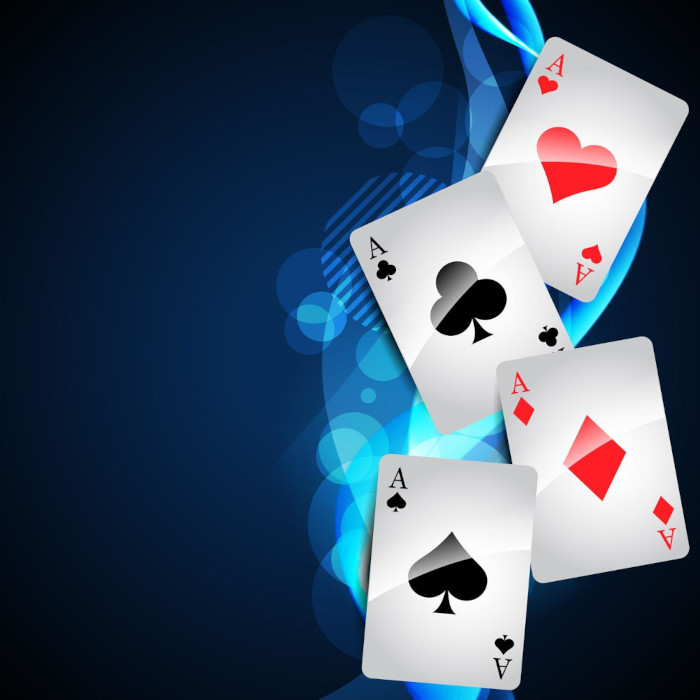
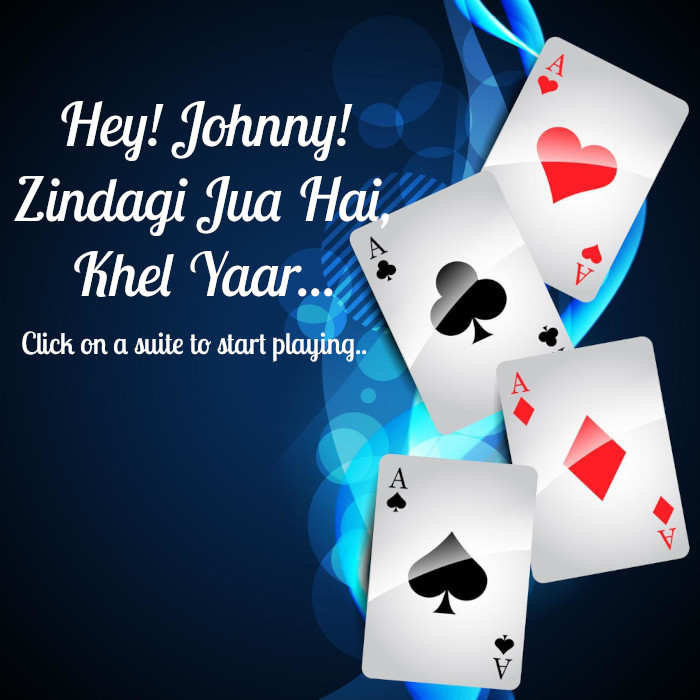
Quiz 202101 - Final check in

Changed region(s): [[0.0, 0.12, 0.57, 0.42], [0.03, 0.45, 0.51, 0.51]]

diff --git a/quizplus/src/main/webapp/202101/app/questiondata.js b/quizplus/src/main/webapp/202101/app/questiondata.js
@@ -1,7 +1,82 @@
+const SPADE_IMAGES = [
+  {"img_url":"http://lh3.googleusercontent.com/siMGNomcojaCUri-cd61ppyzu-noqm8XEBXAgZjgbQu60J0FRrC8XkaaftLmm5AHWmkmmwTi4vTWTzzzNodDYlgDnwgj7gCeKX-R7XWe", "img_width": "950", "img_height": "730" },
+  {"img_url":"http://lh3.googleusercontent.com/NxiBurMD7ptIkiqaeAH6Mftpibl3BovyXO0La_HGxVuFjsaiqqiRu4URcVUH_CTXJLBU3C3_bDDsfdn5foT6p2uXpDFt9q1Tr-I3YBI", "img_width": "950", "img_height": "730" },
+  {"img_url":"http://lh3.googleusercontent.com/oLB0uIB7bLlO-4Chxier6a3nACB8p1sDvG_X7TvrgZKwLYzdtT67LQV9F0Ge-mGG7EWB7V0ixsmBsZDa_TxE2Bdwh4I3GWGw2PkuEl8", "img_width": "950", "img_height": "730" },
+  {"img_url":"http://lh3.googleusercontent.com/mHYMqiPtOmX862HZnU2KFQOnxO5aiC6qNf8NvDxzZXVxjXHymBMwZhEUAr8YjEOAuXyH6Dk86eibj30vug2iNWet6clQbANT-DsNpd4", "img_width": "950", "img_height": "730" },
+  {"img_url":"http://lh3.googleusercontent.com/bsOJT5Uy4G1OZUarp30Y5WkPWhyeub20UwVKfkvh0Dwvojtjf5--m3bIHohNj4yld-URZ6OAos9wRYVOgSX-Tg0uiFHk_uFkITbY5lFb", "img_width": "950", "img_height": "730" },
+  {"img_url":"http://lh3.googleusercontent.com/Lq66VgnLxdtnDwoFSkm2zhI7pTB2N1C_2OzO8okBRby8kZv9HzCYk9-2iDy9nInEhvLHlSirZJvARMYEN7CL8igx7n8EmWpiPV4Go3g", "img_width": "950", "img_height": "730" },
+  {"img_url":"http://lh3.googleusercontent.com/ioMTiKbYPW13sQvN3hDPQ3zaQRL3L1qeLy5s2xAWRpsYt7cbgp5FF39qzi65hi9KD0AxBwTlye7OpwdZR6Az7EdGkLPNHmvwC_2tYLMj", "img_width": "950", "img_height": "730" },
+  {"img_url":"http://lh3.googleusercontent.com/dhyj4qR5iCovV7N0A_VCoLFpQKfMFaqqyXB246ZuxKrkhl2lYzutE9iKDi57aWseVkonDj7lT-GbxJxTFJ47L3nrcYntbxgRmFDHCA0", "img_width": "950", "img_height": "730" },
+  {"img_url":"http://lh3.googleusercontent.com/QAVGCvlcmHqHIjW090CsxU0pbeR0uSFxdx2vRoufDTsgQZzIhhVZREyYEYm26OqUjVutRIi2THQ7gmVfUX85sSRFO7qyAHxv3RVxVys", "img_width": "950", "img_height": "730" },
+  {"img_url":"http://lh3.googleusercontent.com/1ReBRxcIWTxvYIioMqhKshL_6zHqUUDOPMAPFq0xnlLiE6CMUdtxGuVZC5iSpo3D_lB2RFLF1dQh211PLHdts2ZDEob2GhT0w_4EOfs", "img_width": "950", "img_height": "730" },
+  {"img_url":"http://lh3.googleusercontent.com/yujbngoep2_vpB84AjwGAheomcRnDCgiBPG2y6zRsomIdu_XAwRbKz8QuwtnmIjkw6CSPkF1dkhsxcMrUrXuE_U1UnvY34eMtaHmtic", "img_width": "950", "img_height": "730" },
+  {"img_url":"http://lh3.googleusercontent.com/hTXSUuXBpXraBWBwwDroZzpZM9WV82wC33ZJJZvDWwsPu9vrn4o_CJtlzFBcHeaiaxxdO7xIUl3y7tI0zkjcnvVv6tj7U87RuJUxkwE", "img_width": "950", "img_height": "730" },
+  {"img_url":"http://lh3.googleusercontent.com/spuDvw2eP5EI2CGFI3IP615M6n-zymKSRESXZwNrJXw5Ovvqf-4UYmn8_c51HuYlPodDDX-xpkqqE45rkASr8lw36VGKPsOobCU0UiY", "img_width": "950", "img_height": "730" },
+];
+
+const DIAMOND_IMAGES = [
+  {"img_url":"http://lh3.googleusercontent.com/xsryecWQh-VkZk0TDoH8YR16YBU7dzTLakBjFdeejNuyaUB-6ljY-RbvpiJUTKAplI-vysxlQxBwdmR9GxLtQhc2KPT6xcLn-o5fIoQ4", "img_width": "950", "img_height": "730" },
+  {"img_url":"http://lh3.googleusercontent.com/x3OY631384QPstY4loFfhfPojH7CLlLRV49JrO4Uf2XpCxEoeTtCUqTFCOXYU2UqfejXQnD8dnJiKjugayuczpS7kqmZW0lR0bxXL2jC", "img_width": "950", "img_height": "730" },
+  {"img_url":"http://lh3.googleusercontent.com/DHw7ph3TD2c1l-kqwqowibT_uiSVt4qa-xlkCJDBxpbItNUEdan0Tn6S6KIYASiHrTIJzRELvTk9kRaUoME5d_zUOp7pa9wTrZRA78w", "img_width": "950", "img_height": "730" },
+  {"img_url":"http://lh3.googleusercontent.com/JFARk2EUSGbi8gQT_UInDvQF-YD8iBhfTM0AO57Cg_H0l7uMM4QWxG3nUNFgMc8fK3Hi8P-rgtwLQ2_jUAmIiTZdnX9nZs1MSnu5Vw", "img_width": "950", "img_height": "730" },
+  {"img_url":"http://lh3.googleusercontent.com/S4N8YJuMKBjAyLLZ7-4QktfhQgJcXQNmMGPKt5BdWLtfHVuWIbMz0ubYSuH28_yrDcWHa8_1U6ulIv5oMzaH2DgsIcrqH7O91IOlaORl", "img_width": "950", "img_height": "730" },
+  {"img_url":"http://lh3.googleusercontent.com/MeLFXtmyAVdQPRxHrGAfHO7ehlcnfbkTmV8dR0kWCNtr3-NVVqZxpDZbo84Dw1Nh6asW1Gd22zSgdtwEUA56XpHJnwy5TxcpU2aVWA", "img_width": "950", "img_height": "730" },
+  {"img_url":"http://lh3.googleusercontent.com/7zFmGqAVPxgXMRpomCloVfZbCzP8lqAjG4z3-2ez8PUellsDFwLoZI62_3uh5CjtQ343Ri0gKqOgJe94UWLHDYPYdND5N0Uaw2FDHNI", "img_width": "950", "img_height": "730" },
+  {"img_url":"http://lh3.googleusercontent.com/QkQAOVyPPgPOo65NVMUA5x03FpwZ5O_P0DLFdp5klXDZSwjqrC5Q0sgu797ZVcr4urHAmSyvMHw7t5EdTbghmDVxdiWw_L_nBv2GIQ", "img_width": "950", "img_height": "730" },
+  {"img_url":"http://lh3.googleusercontent.com/0NvYF2S_B7hV1JKnfQxg-JI9qsY2nkDwiwiEvG6dFX39S2B66FXmMFTBjhqc6urhDg4f6iQME6PplHpvpX8hMVCyRc_Hsl9bnpiQJuaj", "img_width": "950", "img_height": "730" },
+  {"img_url":"http://lh3.googleusercontent.com/zDqq1eHs_xMsG7bXy3XKxCvlFcFxjENoJ4ilhCLaicEc_IMGGF-pmsZTceZ8Fp68pl8LRUuYWd9ed3TxwFyyfRuYU3z0HsUfDmnUQJc", "img_width": "950", "img_height": "730" },
+  {"img_url":"http://lh3.googleusercontent.com/dRYvvXgZyot-6Z1RUV77FNJip5QvSYwckfR6gG-G3zyzUI-LgVnTTAtd-9r5rA5Z1SkdpCdRX5_mbGD8tYlx__1PduYYE6vMkM3599s", "img_width": "950", "img_height": "730" },
+  {"img_url":"http://lh3.googleusercontent.com/7X5vpCiTrgDP9fNMjnNu--Qx7nI5FxOiaylgAk32snPKW0sEyrOsYYXgdx2Dh83oV6qmnwUM5lxrLtXAFLhVbjDQtMbSRDxvaAXXO7Y", "img_width": "950", "img_height": "730" },
+  {"img_url":"img/cricket.png", "img_width": "384", "img_height": "328", "is_cricket": true },
+];
+
+const CLOVER_IMAGES = [
+  {"img_url":"http://lh3.googleusercontent.com/x6vFdyOuvmRsEepVkFfye507XWTCnJhSI2sFI8SgpB64xi6r8bcglcVv6fTjH1SS294HFtFaM5SA82uF4QjRD_hgq-n6zdoTZrAPCyE", "img_width": "950", "img_height": "730" },
+  {"img_url":"http://lh3.googleusercontent.com/wO7potT5HJwoQ3XLWFZBFOlBPCPPSgaMvUBBi0ch9e86TTYHM5vKN4repnef9FbHa93E-BoEz-8wzpyVo08977ChLOi7FN2-nVAhxaXu", "img_width": "950", "img_height": "730" },
+  {"img_url":"http://lh3.googleusercontent.com/r9NrH8BQkuMt4hfPyWPZB3n3Plwx-VK9aQzIjP0lDzRqiBgrGJojtdwqV-bEN2wZS-DsILehVbPT-L1_E68MI75km908ynghKTLFVw", "img_width": "950", "img_height": "730" },
+  {"img_url":"http://lh3.googleusercontent.com/7q0RjiHu6tsddXNVg4DzdYajrjnsMZV5gmlRko3yj6q_T2J1Prs627yso-qWp-Lfs-OBt7M1SEC-8gsKfgZ0zvfd7AGEPFUKbwI7Xa4", "img_width": "950", "img_height": "730" },
+  {"img_url":"http://lh3.googleusercontent.com/GsEgq50T2rIgMRfsBFGCD-TuI_zeGexxgw5SbulCoutMdJAXINOxJEH5O9OpjsLLRwXvRdDrErZRZEj97RqbjbEnEIU40VfsZ-O5fvA", "img_width": "950", "img_height": "730" },
+  {"img_url":"http://lh3.googleusercontent.com/zsePGB_DdVgL-PMVufYexbySVeUQZInYpzKlnrkiEgwQ70fopVP91iHFeSpTbD7YGH6N_Qbt0gTdEMAZKNXHbi4O0WGbqeNYGoSaEw", "img_width": "950", "img_height": "730" },
+  {"img_url":"http://lh3.googleusercontent.com/jb_fILVJ8hBQvljdK9QT6esVFPFMwfpLMfNMFzmuP-NyUfmhkrDc6QCFsAZ3xSCo6F7SG5H3OBrPORRx0r-ub49S1La9qlmaVUtE7g", "img_width": "950", "img_height": "730" },
+  {"img_url":"http://lh3.googleusercontent.com/ioCwB4VwyQQ2Q9CT3QGf2xe7qIwH2OpOemGujMF33XIE6aoW8HqaLYdaiU_YPoLZVz2eeaW1kw60-aGCv_H8W3zZ6GdWUVQkAiJd5UA", "img_width": "950", "img_height": "730" },
+  {"img_url":"http://lh3.googleusercontent.com/k_59YJmN0bkuS70QUkcpKlMSZdJ1jtMLue3G4e4ORKnGvu_BiXCczDePd_OkENyPIzbXJN0dLeJvrRcd5FUfkP_hz4sIRXv2tzHw9OQ", "img_width": "950", "img_height": "730" },
+  {"img_url":"http://lh3.googleusercontent.com/hNAazaQNUhlW123wU_1VFPFHh3YlrOyb_6fWVeeX6dqGnh2LifNB7JTPtwvSrk1mCkF8bztcAkgra4X3TXe_4aIwseqGau0kj_IWEO9c", "img_width": "950", "img_height": "730" },
+  {"img_url":"http://lh3.googleusercontent.com/3_hgtE7bqlXbA7ymXmcwfr2dT5ldz5vRMA35yDxgPJ-az97pA7jw2QuEYKKvJLHNn4TeOh8Ghor-kz5O7UdTxX7wWdOL9Pp57jYdHuU", "img_width": "950", "img_height": "730" },
+  {"img_url":"http://lh3.googleusercontent.com/fBCiWeZdf9vWIjX0zWhHAfBoWDyTnEect2AClt0S_PpycfgUT-o_JadGCNC89hnNHf9UtVY2brSoVWNBWuG92rJZ1Y6Jl8hhYI-Gmt0", "img_width": "950", "img_height": "730" },
+  {"img_url":"http://lh3.googleusercontent.com/BKrd3zIi0fAcaODB08yCmQx5jxSFCpZum9nEd3hIoPpS92Q2ud7tMG0yWZweWvtHD-71ZaV-2xlA7tZYQ_XXHHtSk_e8RGVh0WVTzJk", "img_width": "950", "img_height": "730" },
+];
+
+const HEART_IMAGES = [
+  {"img_url":"http://lh3.googleusercontent.com/dGkXhHomPckG6_NJJS5edEpr1YFMwtdW5phxpMuXwX2rVtmpfOCyczjozZm2_UUoYf8JD8peg2K_OfY4jFhmnGXYA83p4_aAV_pf-ag", "img_width": "950", "img_height": "730" },
+  {"img_url":"http://lh3.googleusercontent.com/YmRslqZ032V7pDropNNDe5H7Ie-EpDrUh0hRREXi5ADaQRzJpTJbWvfpSlQafZBR4vWzdR2hqy_eAdAzEw44o1LhzB6123_VEVM5ZA", "img_width": "950", "img_height": "730" },
+  {"img_url":"http://lh3.googleusercontent.com/ak-aGFHsGXetzP2lWljZ3QRD-bSGSqhQ2KM4ValK-ZRxmu8HgXVaSuE2PkZwEdtUAv6NbF4526_2cjjkHg3zwgaijp6UJEbC13L44kIZ", "img_width": "950", "img_height": "730" },
+  {"img_url":"http://lh3.googleusercontent.com/TXbWwpticpmwWPT78T_fC_o3CZlhKFMSWWBOhs2EQVvbmvF30auEC5o_udKRn1SLoXMy-ac3XOEvjolAkrfqlyle-ZfeAoebJMsvu9th", "img_width": "950", "img_height": "730" },
+  {"img_url":"http://lh3.googleusercontent.com/ygmFemyW7ZSUThTPwRr8jwE-3E9IQ_MczwzFtMWoeTz9N_Pu6CcXY8zBSMR8PYKPXk_E1Xcf6xIurKP3C5dGlCikVF_VOTCCc1ApqF8", "img_width": "950", "img_height": "730" },
+  {"img_url":"http://lh3.googleusercontent.com/l0xK06hwtBC_tbhPeRXQi0wZXFVB8mCP_arqk1fwsUPA-4WYbkXh_-z5tKDKkf4Xe5lVATZO0g6AXw-hlRdOcjI6bCZWrJnb0VxywKA", "img_width": "950", "img_height": "730" },
+  {"img_url":"http://lh3.googleusercontent.com/7gjcq6txb54nCCJb2RWoItG7e4snyp21twdZ2hZ01OGagvEbXDzEGuIrVhMI4f9-2fYr-CuQv_mqrnjf_aiBHdlvMd2cSqo6o_jA5g", "img_width": "950", "img_height": "730" },
+  {"img_url":"http://lh3.googleusercontent.com/GlvhdoSFJ9CsXEBl_BOozM3349gcklv92MxUb6bNvv0A919NAliPlwXkSkAXtp9jI812Z0uhqXwIGvAw3h5tdmE590koycUORlsLPNJU", "img_width": "950", "img_height": "730" },
+  {"img_url":"http://lh3.googleusercontent.com/LTHCfQWc7hNQAu8k64ZDcroBvv5eZxNFwmT_v1x1n2HuI_pqmvFdKpRjhqvTA0vZ2CNyDp0MrnHYkhAdq7gWBW3c4dlj-WCuU4Rvv-k", "img_width": "950", "img_height": "730" },
+  {
+    "img_url":"http://lh3.googleusercontent.com/wAfyIkFGgtpepMIU2i51Zbg4CWkqD8Eug5Vd-GWNN0xA4fctWJGeoYZhltqs1wz0q1kyQmaFItW47ReqzjaMhXgxrFU8O-dZwmG5cA",
+    "img_width": "950",
+    "img_height": "730",
+    "video_url" : "https://www.youtube.com/embed/XqobRkUAsMc?hl=en&fs=1&rel=0&autoplay=0&showinfo=0"
+  },
+  {"img_url":"http://lh3.googleusercontent.com/17MneA-oUThV7PGRJK13Bgp13O-pZwDl6dD0IOpe11iWHqK3oFHLba2DtA9OOVh618VPftXsoITADATk4a4qqPyuSOGTujBkMm6uO7c", "img_width": "950", "img_height": "730" },
+  {"img_url":"http://lh3.googleusercontent.com/ASDhvPBzEOUzDW05BApOPBGWh-IwwpPL87xYcZt1geDnWDOGr0sv8Xfci-RrxjWbaf4rcyplk0mCnm6_1guGg9PS2XGRTM9NwBktqw", "img_width": "950", "img_height": "730" },
+  {"img_url":"http://lh3.googleusercontent.com/kBaMiksWXbbk6rN3baItjS_l0FZVDQdQTf8yT2MbazqEYd5-HirGs25132y3Uqa2TdKi5CBEjntkyqwV2QuxDykx_LF-jzNYJZvNbA", "img_width": "950", "img_height": "730" }
+];
+const IMAGES_BY_SET = new Map([
+  ["s", SPADE_IMAGES],
+  ["d", DIAMOND_IMAGES],
+  ["c", CLOVER_IMAGES],
+  ["h", HEART_IMAGES],
+]);
+
 quizRunnerModule.factory('QuestionData', function() {
   var helper = {};
   helper.getContent = function(questionSet, questionId) {
-    return null;
+    return IMAGES_BY_SET.get(questionSet)[questionId - 1];
   };
   
   return helper;

diff --git a/quizplus/src/main/webapp/202101/components/chat/controller.js b/quizplus/src/main/webapp/202101/components/chat/controller.js
@@ -14,7 +14,9 @@ quizRunnerModule.controller('ChatController', function($scope,
     authDomain: "quizplus-1145.firebaseapp.com",
     databaseURL: "https://quizplus-1145-default-rtdb.firebaseio.com"
   };
-  firebase.initializeApp(config);
+  if ($scope.ctrl.initfb) {
+    firebase.initializeApp(config);
+  }
   
   $scope.chatUser = {
     userId: $scope.ctrl.person.personid,
@@ -45,14 +47,15 @@ quizRunnerModule.controller('ChatController', function($scope,
   });
   
   $scope.chat.on('message-add', function(room, m) {
-    $scope.messages.push({
-      id: m.id,
-      text: m.message,
-      userName: m.name,
-      userId: m.userId,
-      avatar: "img/avatar.png",
-      date: m.timestamp
-    });
+    var newMessage = {
+        id: m.id,
+        text: m.message,
+        userName: m.name,
+        userId: m.userId,
+        avatar: "img/avatar.png",
+        date: m.timestamp
+      };
+    $scope.messages.push(newMessage);
     $scope.$applyAsync();
   });
 
@@ -67,14 +70,6 @@ quizRunnerModule.component('chat', {
   controllerAs : 'ctrl',
   bindings : {
     person : '=',
+    initfb : '=',
   },
 });
-
-/*
-      $scope.chat.createRoom("Team 1 Room", "public", function(roomId){console.log(roomId);});
-      $scope.chat.createRoom("Team 2 Room", "public", function(roomId){console.log(roomId);});
-      $scope.chat.createRoom("Team 3 Room", "public", function(roomId){console.log(roomId);});
-      $scope.chat.createRoom("Team 4 Room", "public", function(roomId){console.log(roomId);});
-      $scope.chat.createRoom("Team 5 Room", "public", function(roomId){console.log(roomId);});
-      $scope.chat.createRoom("Team 6 Room", "public", function(roomId){console.log(roomId);});
-*/

diff --git a/quizplus/src/main/webapp/202101/components/cricket/controller.js b/quizplus/src/main/webapp/202101/components/cricket/controller.js
@@ -1,0 +1,56 @@
+quizRunnerModule.controller('CricketController', function($scope, $routeParams,
+    $location, $http) {
+  $scope.cells = [];
+  for (var i = 0; i < 12; ++i) {
+    $scope.cells.push({value: "0"});
+  }
+  
+  function recalcTable() {
+    var bat1 = {r: 0, b: 0, f: 0};
+    var bat2 = {r: 0, b: 0, f: 0};
+    var bowl1 = 0;
+    var bowl2 = 0;
+    var currBat1 = true;
+    for (var b = 0; b < 12; ++b) {
+      var currCell = parseInt($scope.cells[b].value);
+      if (currCell === 6) return false;
+      if (b < 6)
+        bowl1 += currCell;
+      else
+        bowl2 += currCell;
+      if (currBat1) {
+        bat1.r += currCell;
+        bat1.b++;
+        bat1.f += (currCell === 4 ? 1 : 0);
+      } else {
+        bat2.r += currCell;
+        bat2.b++;
+        bat2.f += (currCell === 4 ? 1 : 0);
+      }
+      if (currCell === 1)
+        currBat1 = !currBat1;
+      if (b == 5)
+        currBat1 = !currBat1;
+    }
+    return (bat1.r === 6) && (bat1.b === 4) && (bat1.f === 1) &&
+      (bat2.r === 11) && (bat2.b === 8) && (bat2.f === 1) &&
+      (bowl1 === 8) && (bowl2 === 9);
+  }
+  
+  $scope.changeValue = function(cell){
+    switch (cell.value) {
+      case "0": cell.value = "1"; break;
+      case "1": cell.value = "2"; break;
+      case "2": cell.value = "4"; break;
+      case "4": cell.value = "6"; break;
+      case "6": cell.value = "0"; break;
+    }
+    $scope.allCorrect = recalcTable();
+  };
+});
+
+quizRunnerModule.component('cricket', {
+  templateUrl : 'components/cricket/page.ng.html',
+  controller : 'CricketController',
+  controllerAs : 'ctrl'
+});

diff --git a/quizplus/src/main/webapp/202101/views/landing/controller.js b/quizplus/src/main/webapp/202101/views/landing/controller.js
@@ -1,5 +1,5 @@
 quizRunnerModule
-  .controller('LandingPageController', function ($scope, $http, $location, Storage, QuestionData) {
+  .controller('LandingPageController', function ($scope, $http, $location, $window, Storage, QuestionData, $mdDialog) {
     $scope.person = Storage.getPerson();
     $scope.join = function(key) {
       if(this.nameInput === undefined || this.nameInput == null || this.nameInput.length < 1)
@@ -11,13 +11,25 @@ quizRunnerModule
       }).then(function(response) {
         $scope.person = response.data;
         Storage.savePerson($scope.person);
-        $location.reload();
+        $window.location.reload();
       }, function(response) {
         console.log(response);
       });
     };
     
     $scope.goto = function (key) {
-      $location.path('/q/' + key);
+      var utcDate = new Date();
+      var pstDate = new Date(utcDate.toLocaleString('en-US', { timeZone: 'America/Los_Angeles' }));
+      if (pstDate.getHours() < 18) {
+        $mdDialog.show(
+          $mdDialog.alert()
+            .clickOutsideToClose(true)
+            .title('Not Yet Time') 
+            .textContent('The Quiz will open at 6 PM Pacific.')
+            .ok('OK!')
+          );
+      } else {
+        $location.path('/q/' + key);
+      }
     };
   });

diff --git a/quizplus/src/main/webapp/202101/admin.html b/quizplus/src/main/webapp/202101/admin.html
@@ -14,16 +14,8 @@
 </head>
 
 <body ng-app="QuizRunnerModule">
-  <div ng-controller="RootController as rootCtrl" layout="row">
-    <md-sidenav
-	    class="md-sidenav-left"
-	    md-component-id="left"
-	    md-is-locked-open="true"
-	    md-whiteframe="4"
-	    ng-if="person">
-      <chat person="person" initfb="true"></chat>
-    </md-sidenav>
-      <div ng-view class="content-container"></div>
+  <div ng-controller="AdminPageController as rootCtrl" layout="row">
+    <chat person="person" initfb="$index === 0" ng-repeat="person in persons"></chat>
   </div>
 </body>
 
@@ -54,15 +46,8 @@
 <script src="deps/angular-simple-chat.js"></script>
 
 <script src="app/app.js"></script>
-<script src="app/storage.js"></script>
-<script src="app/questiondata.js"></script>
-
 <script src="components/chat/controller.js"></script>
-<script src="components/cricket/controller.js"></script>
-
-<script src="views/landing/controller.js"></script>
-<script src="views/question/controller.js"></script>
-
+<script src="views/admin/controller.js"></script>
 <script src="app/route.js"></script>
 
 </html>

diff --git a/quizplus/src/main/webapp/202101/views/question/attempt.ng.html b/quizplus/src/main/webapp/202101/views/question/attempt.ng.html
@@ -1,7 +1,7 @@
 <md-dialog aria-label="Attempt Answer">
   <form ng-cloak autocomplete="off">
     <md-toolbar class="md-theme-lite">
-      <span>All attempts for Question {{ctrl.question}}</span>
+      <span>Previous Attempts for Question</span>
     </md-toolbar>
     <md-dialog-content>
 	    <md-list class="md-dense" style="max-height: 250px; overflow-y: scroll;">
@@ -16,15 +16,15 @@
 
     WARNING: Only the last answer from the team is considered.
     <md-dialog-actions layout="row">
-      Enter your answer: 
+      Answer:
 	    <md-input-container flex layout-align="center" layout-fill> 
 	     <input type="text" ng-model="ctrl.answerText"></input>
 	    </md-input-container>
 	    <md-button class="md-raised md-primary" ng-click="ctrl.postAnswer()">
-	      SUBMIT
+	      Submit
 	    </md-button>
 	    <md-button class="md-raised md-primary" ng-click="ctrl.hide()">
-        Cancel
+        Close
       </md-button>
 	  </md-dialog-actions>
   </form>

diff --git a/quizplus/src/main/webapp/202101/components/chat/page.ng.html b/quizplus/src/main/webapp/202101/components/chat/page.ng.html
@@ -1,4 +1,18 @@
-<h4>Chat with your team.</h4>
+<md-card>
+  <md-card-title>
+     <md-card-title-text>
+       <span class="md-headline">Welcome to Team {{ctrl.person.team}}</span> 
+     </md-card-title-text>
+   </md-card-title>
+	<md-card-content>
+		You can use the chat
+		window to work together with your team mates, and also to
+		ask the Quiz Master any questions.
+		<p> Don't go anywhere after the quiz! Join the
+<a href="https://us04web.zoom.us/j/74999916638?pwd=cTJvT2NhVGM2NmpYUlBjS1U5alJzUT09" target="_new">Zoom call</a>
+at 8 PM for the answers!
+	</md-card-content>
+</md-card>
 <div id="firechat-wrapper" class="firechat-wrapper">
   <simple-chat
     messages="messages"
@@ -7,3 +21,6 @@
     live-mode="false">
   </simple-chat>
 </div>
+<md-content>
+ 
+</md-content>

diff --git a/quizplus/src/main/webapp/202101/components/cricket/page.ng.html b/quizplus/src/main/webapp/202101/components/cricket/page.ng.html
@@ -1,0 +1,18 @@
+<md-content>
+  <div>
+    Click on the balls to cycle through the options:
+    <table class="cricket-table">
+    <tr>
+      <td colspan="6">Over 1 (Wasim)</td>
+      <td colspan="6">Over 2 (Shoib)</td>
+    <tr>
+      <td ng-repeat="cell in cells">
+        <md-button class="md-fab md-primary md-mini" ng-click="changeValue(cell)">
+          {{cell.value}}
+        </md-button>
+      </td>
+    </table>
+    <span ng-if="allCorrect">Congrats. Submit the answer <b>FAB4</b> to get your just rewards.</span>
+    <span ng-if="!allCorrect">That's not it, Keep Trying!</span>
+  </div>
+</md-content>

diff --git a/quizplus/src/main/webapp/202101/views/landing/page.ng.html b/quizplus/src/main/webapp/202101/views/landing/page.ng.html
@@ -31,7 +31,6 @@
    </md-card-title>
    <md-card-content flex>
     <div layout="column" class="landing-sel-button-div">
-      <span style="color:white;">Choose one of these sets to start playing...</span>
       <md-button class="md-raised sel-button" ng-click="goto('s/1')">&#x2660; Spade</md-button> 
       <md-button class="md-raised sel-button" ng-click="goto('c/1')">&#x2663; Clover</md-button>
       <md-button class="md-raised sel-button" ng-click="goto('h/1')">&#x2665; Heart</md-button>

diff --git a/quizplus/src/main/webapp/202101/deps/angular-simple-chat.js b/quizplus/src/main/webapp/202101/deps/angular-simple-chat.js
@@ -535,7 +535,7 @@ function messageComposerController($scope) {
                     label: 'endSentence'
                 });
             } else {
-                that.messages.push(_message);
+                // that.messages.push(_message);
             }
             $scope.$emit('simple-chat-message-posted');
             if (!that.options.liveMode) {

diff --git a/quizplus/src/main/webapp/202101/views/admin/controller.js b/quizplus/src/main/webapp/202101/views/admin/controller.js
@@ -1,0 +1,10 @@
+quizRunnerModule
+  .controller('AdminPageController', function ($scope, $routeParams, $location, $http) {
+    $scope.persons = [];
+    for (i = 0; i < 6; ++i) {
+      $scope.persons.push({
+        name: "Quiz Master",
+        team: i + 1,
+      });
+    }
+  });

diff --git a/quizplus/src/main/webapp/202101/styles/style.css b/quizplus/src/main/webapp/202101/styles/style.css
@@ -157,3 +157,12 @@ body, html {
 .selected-q-icon {
   border: 2px solid white;
 }
+
+.cricket-table {
+	text-align: center;
+	border: 1px solid darkgrey;
+}
+
+.cricket-table td {
+  border: 1px solid darkgrey;
+}
